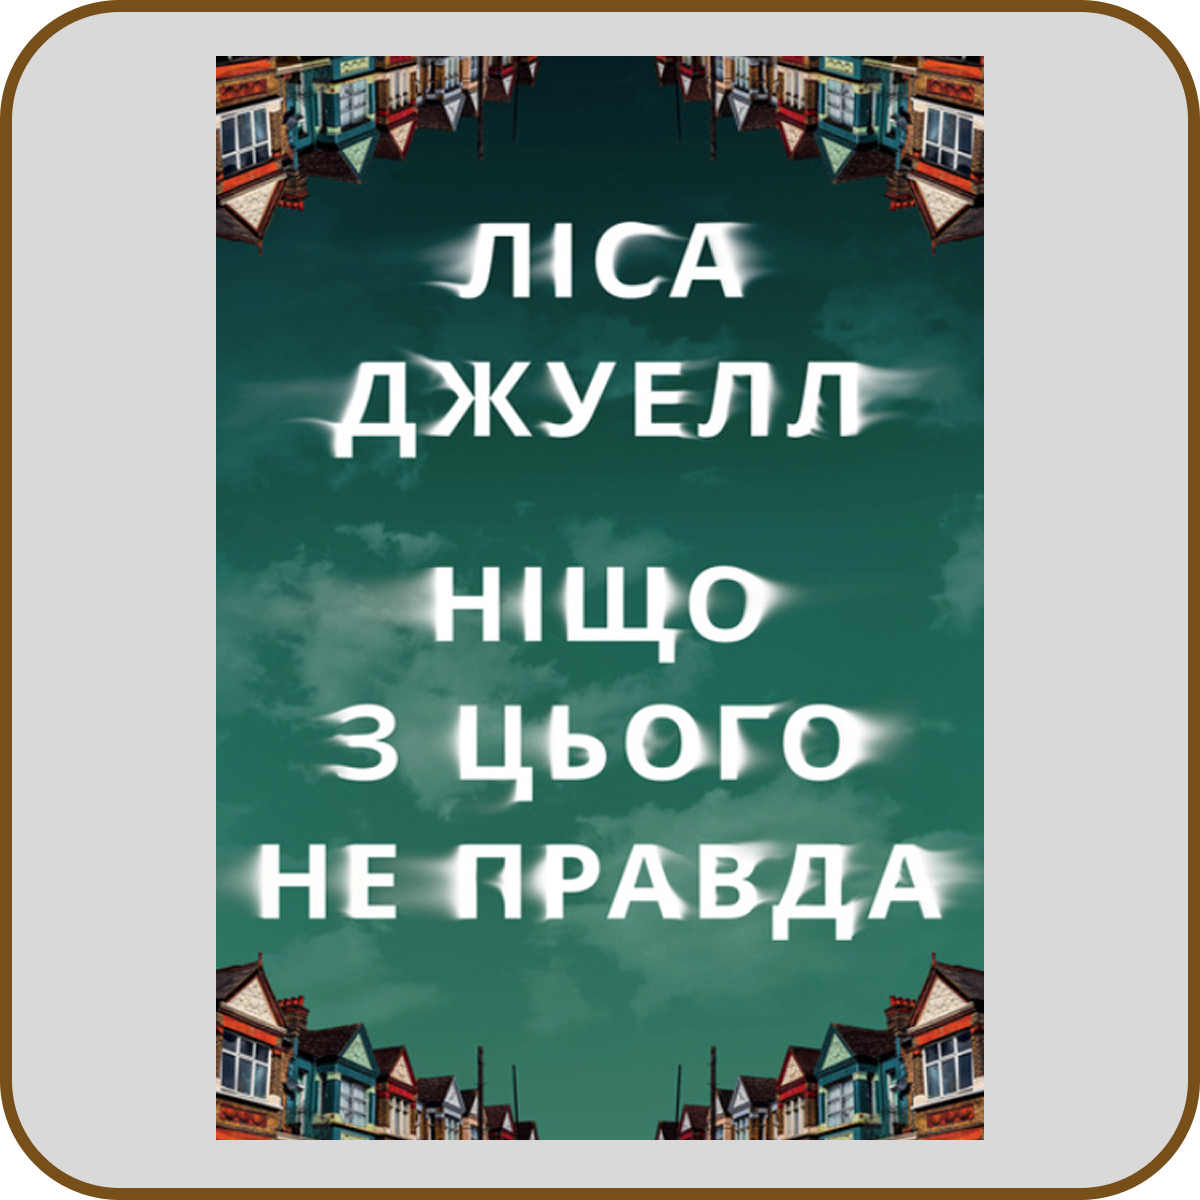
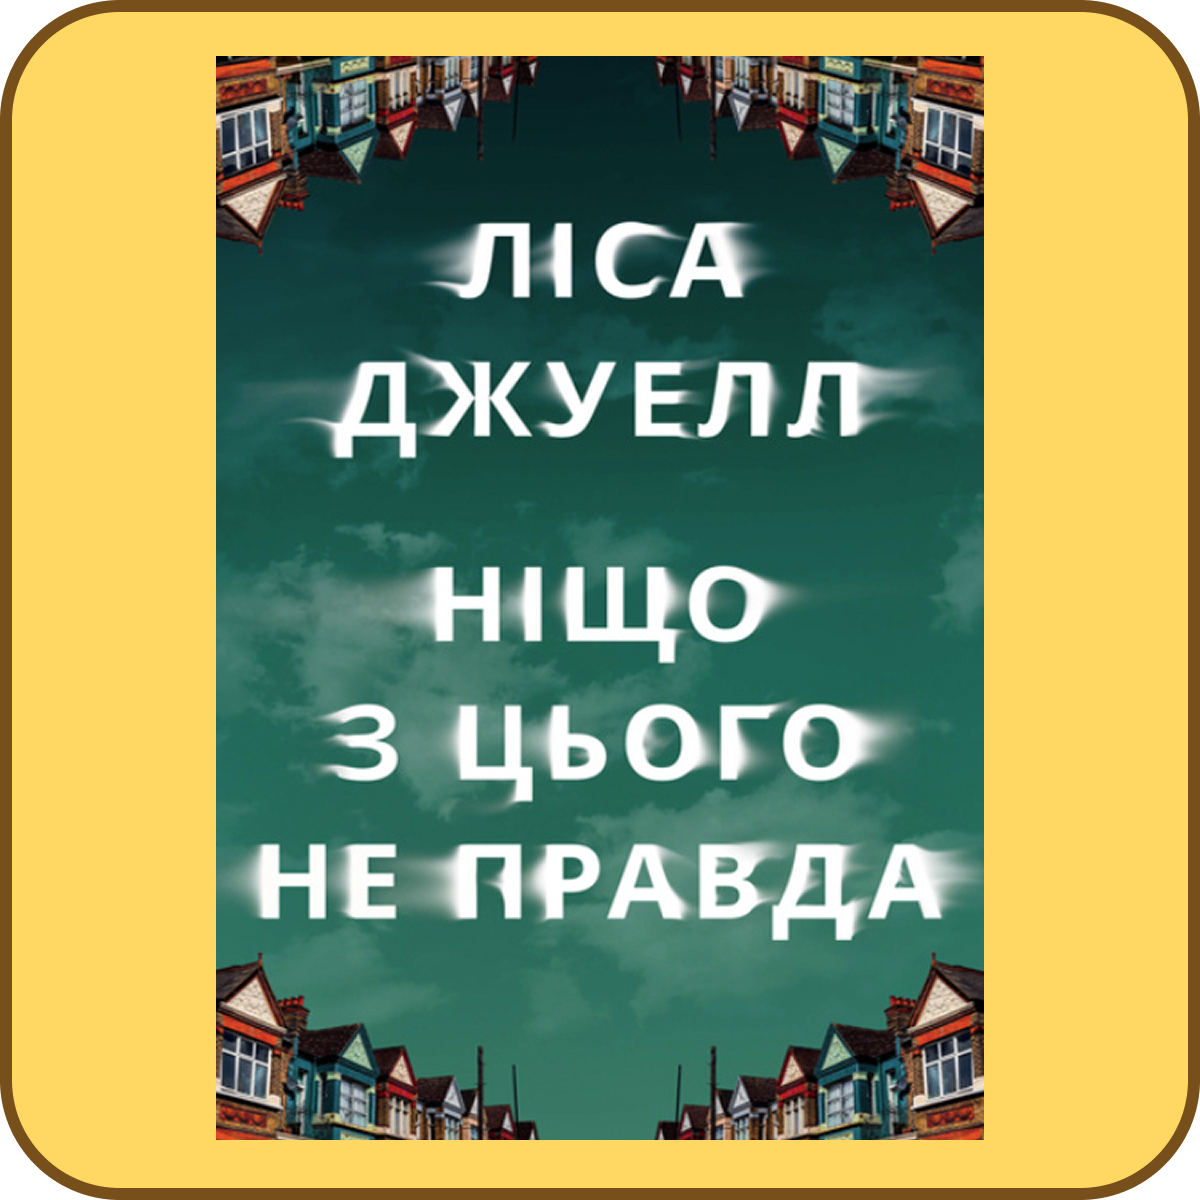
Оновлення: нові стилі або фікси

diff --git a/coffee.html b/coffee.html
@@ -1,0 +1,167 @@
+<!DOCTYPE html>
+<html lang="uk">
+<head>
+  <meta charset="UTF-8">
+  <meta name="viewport" content="width=device-width, initial-scale=1.0">
+  <title>Coffee & Books</title>
+  <link rel="stylesheet" href="css/style.css">
+</head>
+<body>
+
+  <header class="main-header">
+    <div class="container header-inner">
+      <div class="logo">
+        <img src="images/logo.png" alt="Coffee & Books">
+      </div>
+      <nav class="main-nav">
+        <ul>
+          <li><a href="index.html" class="active">ГОЛОВНА</a></li>
+          <li><a href="drinks.html">НАПОЇ</a></li>
+          <li><a href="coffee.html">КАВА</a></li>
+          <li><a href="dessert.html">ДЕСЕРТИ</a></li>
+          <li><a href="book.html">КНИЖКИ</a></li>
+        </ul>
+      </nav>
+    </div>
+  </header>
+
+  
+  <section class="popular-products">
+    <h2>Кава та інші напої в упаковці</h2>
+    <div class="product-list">
+      <div class="product-card" data-title="Кава Colombia Supremo" data-price="300 $" data-description="Ароматна кава з багатим смаком родом з Колумбії.">
+        <img src="images/columbia.png" alt="Кава Colombia Supremo">
+        <h3>Кава Colombia Supremo</h3>
+        <p class="price">300 ₴</p>
+        <button class="visit-btn">ПРИДБАТИ В КАВ'ЯРНІ</button>
+        <button class="product-detail-btn">ДЕТАЛЬНІШЕ</button>
+      </div>
+      <div class="product-card" data-title="Матча Kototsubaki" data-price="900 $" data-description="Органічна японська матча з насиченим смаком та ароматом.">
+        <img src="images/matcha.png" alt="Матча Kototsubaki">
+        <h3>Матча Kototsubaki</h3>
+        <p class="price">900 ₴</p>
+        <button class="visit-btn">ПРИДБАТИ В КАВ'ЯРНІ</button>
+        <button class="product-detail-btn">ДЕТАЛЬНІШЕ</button>
+      </div>
+      <div class="product-card" data-title="Натуральний какао" data-price="250 $" data-description="Справжній какао з глибоким смаком, ідеальний для зимових вечорів.">
+        <img src="images/cocoa.png" alt="Натуральний какао">
+        <h3>Натуральний какао</h3>
+        <p class="price">250 ₴</p>
+        <button class="visit-btn">ПРИДБАТИ В КАВ'ЯРНІ</button>
+        <button class="product-detail-btn">ДЕТАЛЬНІШЕ</button>
+      </div>
+    </div>
+  </section>
+
+<!-- Модальне вікно -->
+<div id="modal" class="modal">
+  <div class="modal-content">
+    <span class="close">&times;</span>
+    <img src="images/cafe.jpg" alt="Фото кав'ярні" class="modal-image">
+    <h3>Адреса кав'ярні</h3>
+    <p>м. Київ, вул. Кавова, 12</p>
+  </div>
+</div>
+
+
+
+<!-- Модальне вікно: Деталі товару -->
+<div id="product-modal" class="modal" style="display:none; position:fixed; z-index:1000; left:0; top:0; width:100%; height:100%; background-color: rgba(0,0,0,0.4);">
+  <div class="modal-content" style="background:#fff; margin:10% auto; padding:20px; width:350px; border-radius:10px; text-align:center; position:relative;">
+    <span class="close-product" style="position:absolute; top:10px; right:15px; font-size:24px; cursor:pointer;">&times;</span>
+    <h3 id="product-title"></h3>
+    <p id="product-description"></p>
+    <p><strong id="product-price"></strong></p>
+  </div>
+</div>
+
+<!-- Скрипт для обох вікон -->
+<script>
+  // Вікно адреси кав’ярні
+  const modal = document.getElementById("modal");
+  const visitBtns = document.querySelectorAll(".visit-btn");
+  const closeModal = document.querySelector(".close");
+
+  visitBtns.forEach(btn => {
+    btn.addEventListener("click", () => {
+      modal.style.display = "block";
+    });
+  });
+
+  closeModal.onclick = function () {
+    modal.style.display = "none";
+  }
+
+  // Закриття при кліку поза вікном
+  window.addEventListener("click", function (event) {
+    if (event.target === modal) {
+      modal.style.display = "none";
+    }
+    if (event.target === productModal) {
+      productModal.style.display = "none";
+    }
+  });
+
+  // Вікно деталей товару
+  const productModal = document.getElementById("product-modal");
+  const productTitle = document.getElementById("product-title");
+  const productDescription = document.getElementById("product-description");
+  const productPrice = document.getElementById("product-price");
+  const productBtns = document.querySelectorAll(".product-detail-btn");
+  const productClose = document.querySelector(".close-product");
+
+  productBtns.forEach(btn => {
+    btn.addEventListener("click", () => {
+      const card = btn.closest(".product-card");
+      productTitle.textContent = card.dataset.title;
+      productDescription.textContent = card.dataset.description;
+      productPrice.textContent = card.dataset.price;
+      productModal.style.display = "block";
+    });
+  });
+
+  productClose.onclick = function () {
+    productModal.style.display = "none";
+  }
+</script>
+
+
+
+
+
+
+
+
+<footer class="footer"> 
+    <div class="footer-container" style="position: relative;">
+      <img src="images/decor-icon.png" alt="Icon" class="corner-icon">
+  
+      <div class="footer-logo">
+        <h2><span class="blue">CO</span><span class="brown">FFE</span> & <span class="brown">BOO</span><span class="blue">KS</span></h2>
+      </div>
+      <div class="footer-column">
+        <h3>Магазин</h3>
+        <a href="coffee.html">Кава</a>
+        <a href="drinks.html">Напої</a>
+        <a href="dessert.html">Десерти</a>
+      </div>
+      <div class="footer-column">
+        <h3>Інше</h3>
+        <a href="book.html">Книги</a>
+      </div>
+      <div class="footer-column">
+        <h3>Контакти</h3>
+        <a href="https://www.instagram.com/aiisaann/" target="_blank">Instagram</a>
+        <a href="tel:+380971601453">+380971601453</a>
+      </div>
+      <div class="footer-column">
+        <h3>Де нас знайти?</h3>
+        <p><strong>Київ, вулиця Кавова</strong></p>
+      </div>
+    </div>
+  </footer>
+  
+  </body>
+  </html>
+  
+

diff --git a/book.html b/book.html
@@ -56,7 +56,6 @@
 </header>
 
 <section class="book">
-  <h2>Ваші улюблені книжечки</h2>
   <div class="book-story-block">
     <img src="images/book-candle.jpg" alt="Книга і свічка" class="book-story-img">
     <div class="book-story-text">
@@ -100,15 +99,15 @@
       <h3>"Ніщо з цього не правда"</h3>
       <p class="author">Ліса Джуелл</p>
     </div>
-    <div class="book-card" onclick="openModal(this)" data-title="Таємна історія" data-author="Донна Тартт" data-description="Річард Пейпен – молодий каліфорнієць, що вступає до приватного коледжу у Новій Англії та завдяки щасливому випадку опиняється в закритій спільноті з вивчення давньогрецької культури. Шестеро студентів: близнюки Чарльз і Камілла, інтелігентний Генрі, витончений Френсіс, веселий Банні та Річард майже весь час разом, і ніщо не віщує біди. Проте любов до античної культури врешті-решт призводить до зовсім не давньогрецької трагедії, і на землю біля коледжу проливається кров одного з них…" data-image="images/b5.png">
-      <img src="images/b5.png" alt="">
-      <h3>"Таємна історія"</h3>
-      <p class="author">Донна Тартт</p>
+    <div class="book-card" onclick="openModal(this)" data-title="Шерлок Голмс" data-author="Артур Конан Дойл" data-description="Здається, немає на світі людини, яка б не знала про пригоди надзвичайно талановитого й кмітливого детектива Шерлока Голмса та його вірного друга й помічника доктора Вотсона. Численна купа екранізацій, творів на основі цього першоджерела та історій, породжених фантазією Артура Конан Дойла – ці двоє друзів та їхні пригоди навіки закріпилися в масовій культурі й донині залишаються актуальними." data-image="images/b11.png">
+      <img src="images/b11.png" alt="">
+      <h3>"Шерлок Голмс"</h3>
+      <p class="author">Артур Конан Дойл</p>
     </div>
-    <div class="book-card" onclick="openModal(this)" data-title="Танці з кістками" data-author="Андрій Сем'яківськів" data-description="Справжній трилер з елементами чорного гумору та детективу." data-image="images/b6.png">
-      <img src="images/b6.png" alt="">
-      <h3>"Танці з кістками"</h3>
-      <p class="author">Андрій Сем'яківськів</p>
+    <div class="book-card" onclick="openModal(this)" data-title="Справа Аляски Сандерс" data-author="Жоель Діккер" data-description="Маунт-Плезант, на перший погляд, мирне й тихе містечко. Та одного разу цю ідилію ламає страшний інцидент – на березі озера знаходять понівечене тіло Аляски Сандерс. Розслідування, на диво, триває не довго – вбивцю та його спільника швидко знаходять. Але через одинадцять років подробиці страшного злочину починають виринати на поверхню: сержант, який тоді вів справу, отримує анонімного листа, з якого стає зрозуміло, що поліція тоді натрапила на не той слід…" data-image="images/b12.png">
+      <img src="images/b12.png" alt="">
+      <h3>"Справа Аляски Сандерс"</h3>
+      <p class="author">Жоель Діккер</p>
     </div>
   </div>
 </section>

diff --git a/index.html b/index.html
@@ -162,11 +162,11 @@
   <div class="container">
     <h2 class="partners-title">Наші партнери</h2>
     <div class="partners-logos">
-      <a href="https://escobar-coffee.com.ua/?srsltid=AfmBOooLluqPXiMOAUv_a7Q0tabWSDF_ApRdQXSpSFZZ9MBoJCy9iKU0" target="_blank">
-        <img src="images/partner-escobar.png" alt="Escobar">
-      </a>
       <a href="https://milkbar.com.ua/" target="_blank">
         <img src="images/partner-milkbar.png" alt="Milk Bar">
+      </a>
+      <a href="https://3champsroastery.com.ua" target="_blank">
+        <img src="images/partner-escobar.png" alt="Escobar">
       </a>
       <a href="https://ukr.coffee/?utm_source=google&utm_medium=cpc&utm_campaign=A_brendova_Tilda_UKR&utm_medium=cpc&utm_term=united%20kyiv%20roasters&gad_source=1&gad_campaignid=21688897190&gclid=Cj0KCQjwxJvBBhDuARIsAGUgNfgRvYlt7RbzGQactpzX_pkfrWoVhKh13M6A0POFPJMjuq2YjLuFRE4aAjG1EALw_wcB" target="_blank">
         <img src="images/partner-united.png" alt="United Kyiv Roasters">

diff --git a/dessert.html b/dessert.html
@@ -1,0 +1,26 @@
+<!DOCTYPE html>
+<html lang="uk">
+<head>
+  <meta charset="UTF-8">
+  <meta name="viewport" content="width=device-width, initial-scale=1.0">
+  <title>Coffee & Books</title>
+  <link rel="stylesheet" href="css/style.css">
+</head>
+<body>
+
+  <header class="main-header">
+    <div class="container header-inner">
+      <div class="logo">
+        <img src="images/logo.png" alt="Coffee & Books">
+      </div>
+      <nav class="main-nav">
+        <ul>
+          <li><a href="index.html" class="active">ГОЛОВНА</a></li>
+          <li><a href="drinks.html">НАПОЇ</a></li>
+          <li><a href="coffee.html">КАВА</a></li>
+          <li><a href="dessert.html">ДЕСЕРТИ</a></li>
+          <li><a href="book.html">КНИЖКИ</a></li>
+        </ul>
+      </nav>
+    </div>
+  </header>

diff --git a/css/style.css b/css/style.css
@@ -722,16 +722,11 @@ button[type="submit"]:hover {
   margin-bottom: 30px;
 }
 .book h4 {
-  color: #FFE073;
+  color: #3c2415;
   font-size: 46px;
   font-weight: bold;
   margin-bottom: 30px;
-  text-shadow:
-    -1px -1px 0 #3c2415,
-    1px -1px 0 #3c2415,
-    -1px 1px 0 #3c2415,
-    1px 1px 0 #3c2415;
-  transition: text-shadow 0.3s ease;
+
 }
 
 
@@ -780,7 +775,7 @@ button[type="submit"]:hover {
   max-width: 1000px; /* або стільки ж, скільки у твоїх товарних блоків */
   margin: 40px auto;  /* вирівнює блок по центру */
   padding: 40px;
-  background-color: #f3ebd9; 
+  background-color: #FFE073; 
   border-radius: 20px;
   box-shadow: 0 4px 10px rgba(0, 0, 0, 0.08);
   display: flex;
